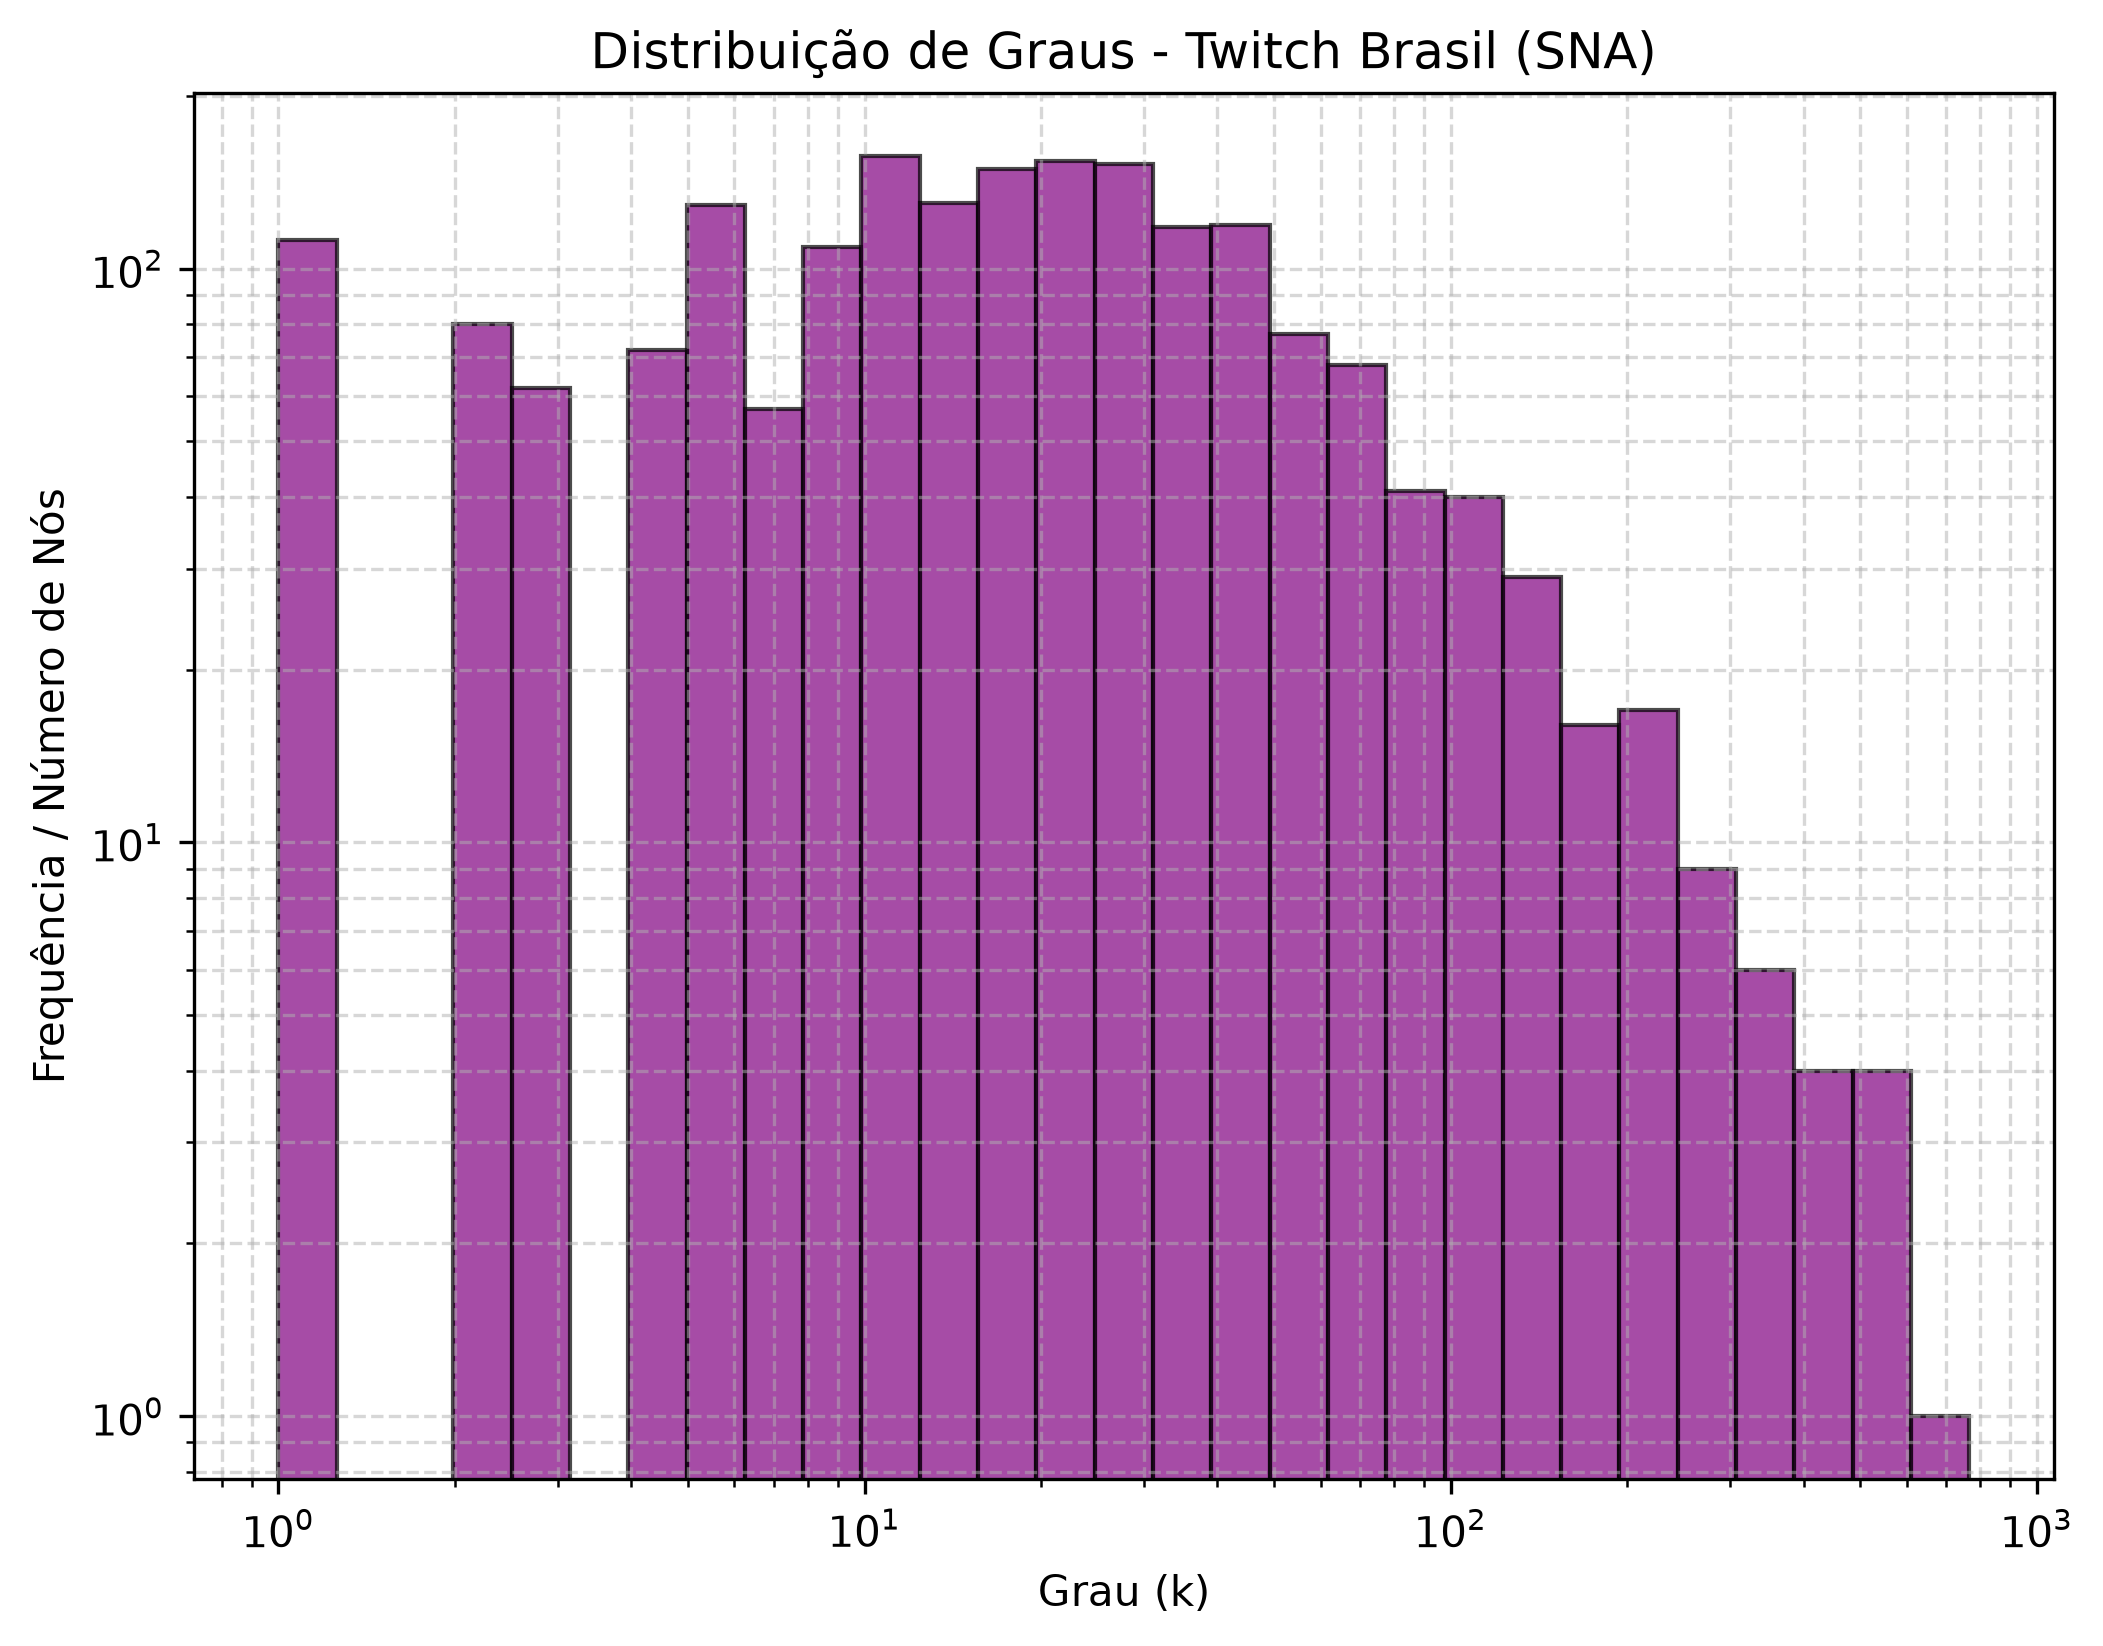
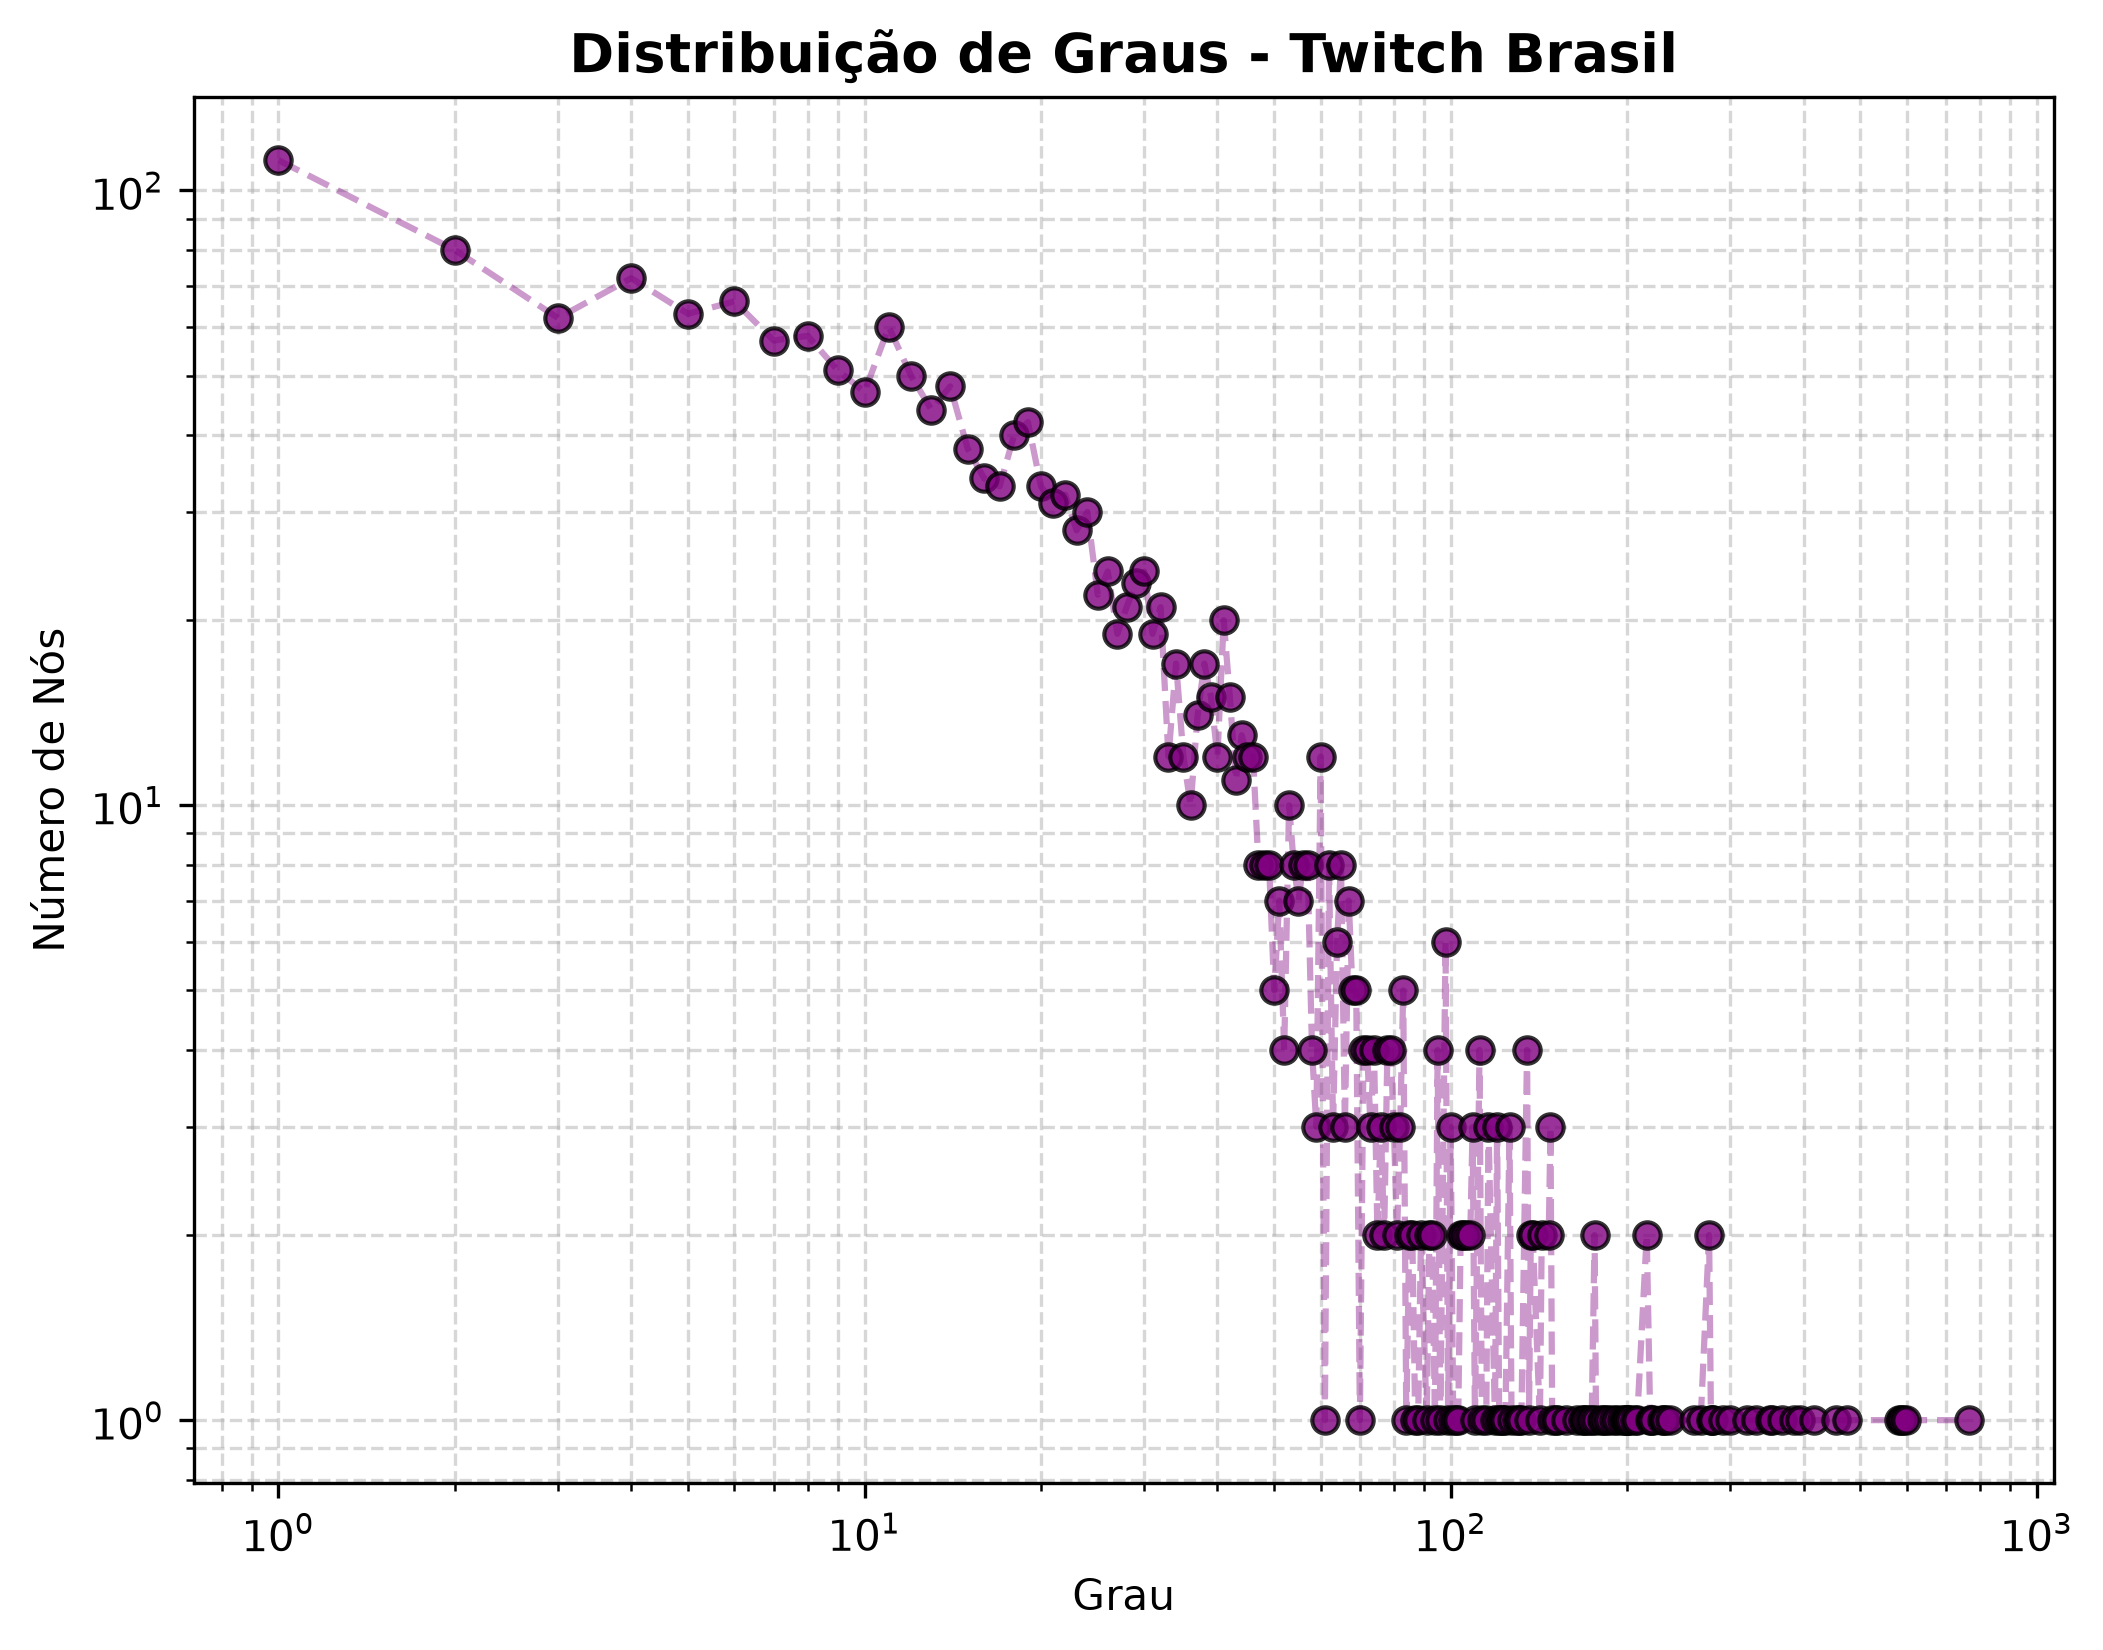
feat: atualiza visualizacoes da rede e documentacao do README

diff --git a/src/visualizacao.py b/src/visualizacao.py
@@ -10,66 +10,70 @@ def gerar_visualizacoes():
     
     os.makedirs("relatorios", exist_ok=True)
     
-    graus = [d for n, d in G.degree()]
-    
-    bins_log = np.logspace(np.log10(min(graus)), np.log10(max(graus)), 30)
-    
+    graus_contagem = nx.degree_histogram(G)
+    graus_valores = range(len(graus_contagem))
+
+    x = [g for g in graus_valores if graus_contagem[g] > 0]
+    y = [graus_contagem[g] for g in graus_valores if graus_contagem[g] > 0]
+
     plt.figure(figsize=(8, 6))
-    plt.hist(graus, bins=bins_log, color='purple', alpha=0.7, edgecolor='black')
-    plt.title("Distribuição de Graus - Twitch Brasil (SNA)")
-    plt.xlabel("Grau (k)")
-    plt.ylabel("Frequência / Número de Nós")
+    plt.scatter(x, y, color='purple', alpha=0.8, edgecolors='black', s=40, zorder=3)
+    plt.plot(x, y, color='purple', alpha=0.4, linestyle='--', zorder=2)
+
+    plt.title("Distribuição de Graus - Twitch Brasil", fontsize=13, fontweight='bold')
+    plt.xlabel("Grau")
+    plt.ylabel("Número de Nós")
     plt.yscale('log')
     plt.xscale('log')
     plt.grid(True, which="both", ls="--", alpha=0.5)
-    
+
     caminho_dist = "relatorios/distribuicao_graus.png"
     plt.savefig(caminho_dist, dpi=300, bbox_inches='tight')
     plt.close()
     print(f"-> Salvo em: {caminho_dist}")
 
-    pos = nx.spring_layout(G, seed=42, k=1.5, iterations=100)
+    pos = nx.spring_layout(G, seed=42, k=2.5, iterations=150)
     
     partition = community_louvain.best_partition(G, random_state=42)
     cores = [partition[node] for node in G.nodes()]
     
-    num_comunidades = len(set(partition.values()))
-    print(f"Número de comunidades detectadas: {num_comunidades}")
-    if num_comunidades > 20:
-        print("Aviso: mais de 20 comunidades — cores podem se repetir na paleta tab20.")
-
     graus_dict = dict(G.degree())
     hub_real = max(graus_dict, key=graus_dict.get)
     
-    plt.figure(figsize=(16, 16))
+    plt.figure(figsize=(18, 18), facecolor='white')
     
-    nx.draw_networkx_edges(G, pos, alpha=0.02, edge_color='gray', width=0.3)
+    nx.draw_networkx_edges(G, pos, alpha=0.20, edge_color='#777777', width=0.25)
+    
+    tamanhos_nos = [v * 0.8 + 25 for v in graus_dict.values()]
     
     nodes = nx.draw_networkx_nodes(
         G, pos, 
         node_color=cores, 
         cmap=plt.cm.tab20, 
-        node_size=[v * 0.15 + 10 for v in graus_dict.values()],
-        alpha=0.8
+        node_size=tamanhos_nos,
+        alpha=0.9,
+        edgecolors='black',
+        linewidths=0.3
     )
     
     x, y = pos[hub_real]
     plt.annotate(
-        f'Nó {hub_real} (Hub)', 
+        f'Hub Principal (Nó {hub_real})\n{graus_dict[hub_real]} conexões', 
         xy=(x, y), 
-        xytext=(x + 0.3, y + 0.3),
-        fontsize=13, 
+        xytext=(x + 0.15, y + 0.15),
+        fontsize=12, 
         fontweight='bold',
+        bbox=dict(boxstyle="round,pad=0.4", fc="#ffeb3b", ec="black", lw=1.2),
         arrowprops=dict(arrowstyle='->', color='black', lw=1.5)
     )
     
-    plt.title("Mapa de Comunidades da Twitch Brasil (Algoritmo de Louvain)", fontsize=14)
+    plt.title("Mapa de Comunidades da Twitch Brasil", fontsize=16, fontweight='bold')
     plt.axis('off')
     
     caminho_com = "relatorios/mapa_comunidades.png"
     plt.savefig(caminho_com, dpi=300, bbox_inches='tight')
     plt.close()
     print(f"-> Salvo em: {caminho_com}")
-    
+
 if __name__ == "__main__":
     gerar_visualizacoes()

diff --git a/README.md b/README.md
@@ -50,4 +50,4 @@ Os gráficos serão salvos automaticamente em `relatorios/`.
 
 - O nó 127 é o hub dominante da rede, líder simultâneo nas quatro métricas de centralidade (degree, betweenness, closeness e eigenvector).
 - Rede altamente conectada: um único componente conexo (100% giant component), diâmetro 7, caminho médio de 2,53 — características de rede "mundo pequeno".
-- Modularidade Q obtida com Louvain: [preencher com o valor real do seu output]
+- Modularidade Q obtida com Louvain: 0.2909
